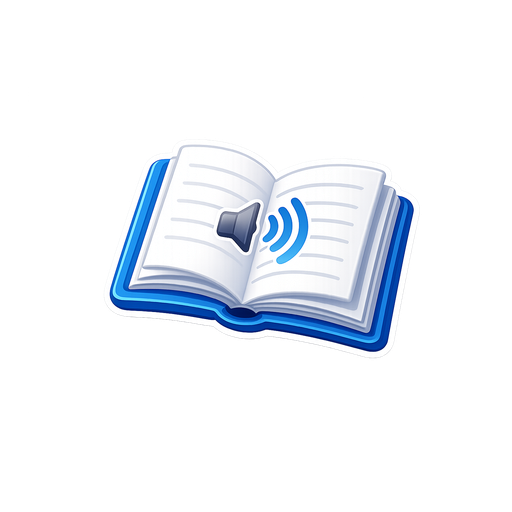
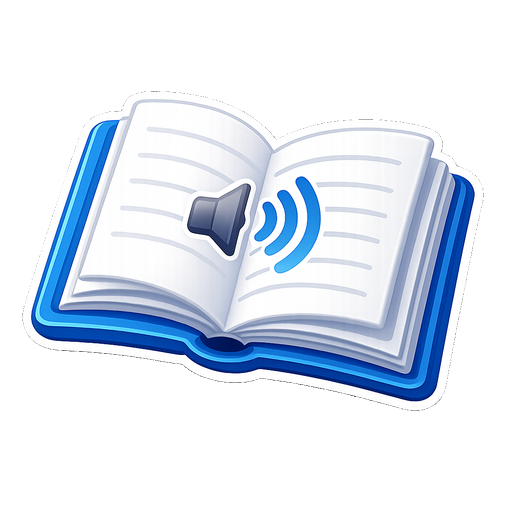
Bump build version

Changed region(s): [[0.0625, 0.1875, 0.9375, 0.8125]]

diff --git a/voice_reader/version.py b/voice_reader/version.py
@@ -16,4 +16,4 @@ APP_COPYRIGHT: str = "© 2026 Oliver Ernster"
 # builds as a different app (separate taskbar grouping / pinned item).
 APP_APPUSERMODELID: str = "com.oliverernster.narratex"
 
-__version__: str = "2.9.5"
+__version__: str = "2.9.6"